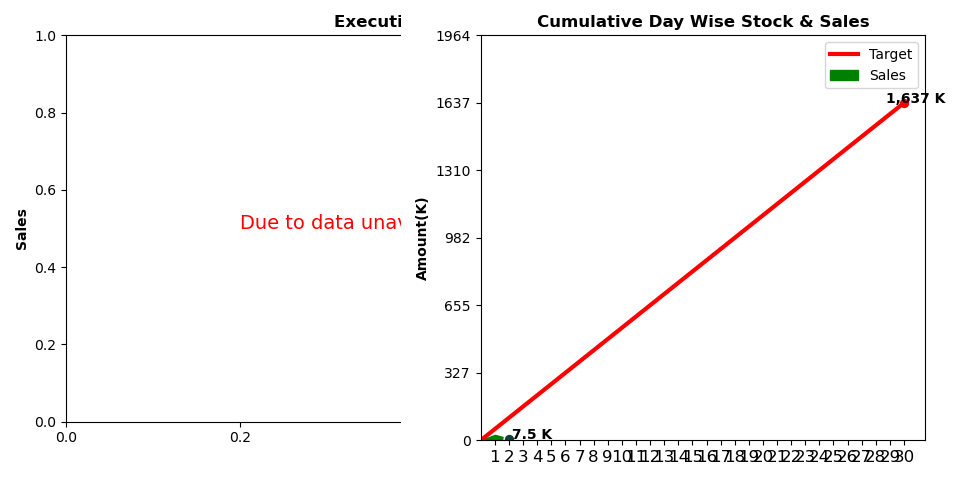
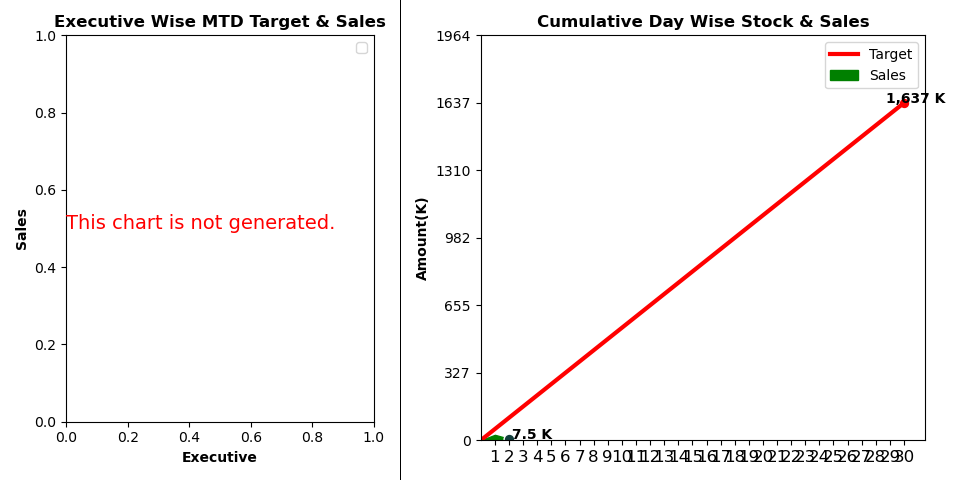
update executive wise target and sales

diff --git a/Functions/design_report_layout.py b/Functions/design_report_layout.py
@@ -228,11 +228,10 @@ def generate_layout(gpm_name):
                     <tr> """ + noStock.get_No_Stock_Records() + """
                 </table>
                 
-          
                 
-                <table border="1px solid gray" cellspacing ="20">
+                <table border="1px solid black" cellspacing ="20">
                  <tr>
-                    <th colspan="15" class="info"> """ + gpm.getGPMNFullInfo(gpm_name) + """ </th>
+                    <th colspan="15" class="info"> Master Data Set </th>
                     <th colspan="3" style="font-weight: bolder; font-size: 12px; background-color: #e6a454 ">SKF Plant</th>
                     <th rowspan="3" style="background-color: #d0ff89"><div>TDCL Central WH</div></th>
                     <th rowspan="3" style="background-color: #95ff89"><div>Branch Total</div></th>

diff --git a/send_mail.py b/send_mail.py
@@ -75,7 +75,7 @@ def send_mail(gpm_name):
     today = str(date.day) + '/' + str(date.month) + '/' + str(date.year) + ' ' + date.strftime("%I:%M %p")
 
     # # ------------ Group email --------------------
-    subject = "Brand Wise Sales and Stock Report" + today
+    subject = "Brand Wise Sales and Stock Report " + today
     email_server_host = 'mail.transcombd.com'
     port = 25
 
@@ -96,8 +96,8 @@ def send_mail(gpm_name):
 
     # # We reference the image in the IMG SRC attribute by the ID we give it below
     msgText = MIMEText("""
-                                 """ + layout.generate_layout(gpm_name) + """
-                                """, 'html')
+                            """ + layout.generate_layout(gpm_name) + """
+                        """, 'html')
     msgAlternative.attach(msgText)
 
     # --- Read Banner Images

diff --git a/Functions/executive_wise_sales_target.py b/Functions/executive_wise_sales_target.py
@@ -97,12 +97,12 @@ def executive_sales_target(name):
         plt.savefig('./Images/executive_wise_target_vs_sold_quantity.png')
         print('Executive figure generated')
     except:
-        fig, ax = plt.subplots(figsize=(9.6, 4.8))
+        fig, ax = plt.subplots(figsize=(4, 4.8))
         plt.title("Executive Wise MTD Target & Sales", fontsize=12, color='black', fontweight='bold')
         plt.xlabel('Executive', fontsize=10, color='black', fontweight='bold')
         plt.ylabel('Sales', fontsize=10, color='black', fontweight='bold')
 
-        plt.text(0.2, 0.5, 'Due to data unavaibility the chart could not get generated.', color='red', fontsize=14)
+        plt.text(0.05, 0.5, 'This chart is not generated.', color='red', fontsize=14)
         plt.legend(['Target', 'Sales'])
         plt.tight_layout()
         # plt.show()

diff --git a/setup.py b/setup.py
@@ -1,5 +1,4 @@
-import os
-import Functions.send_mail as action
+import send_mail as action
 import error_alert as error
 
 
